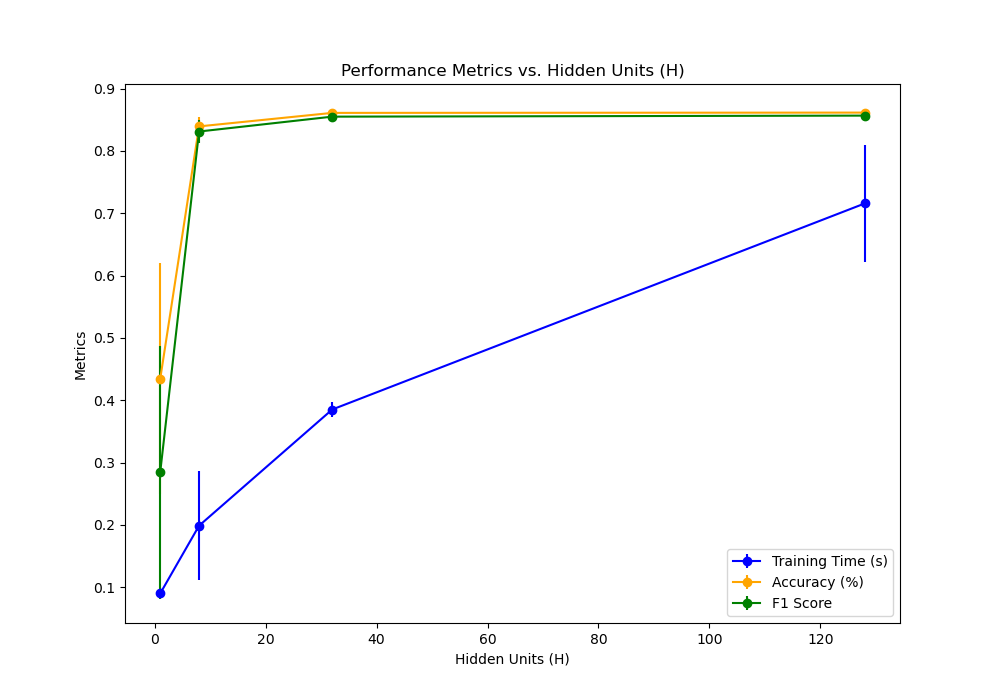
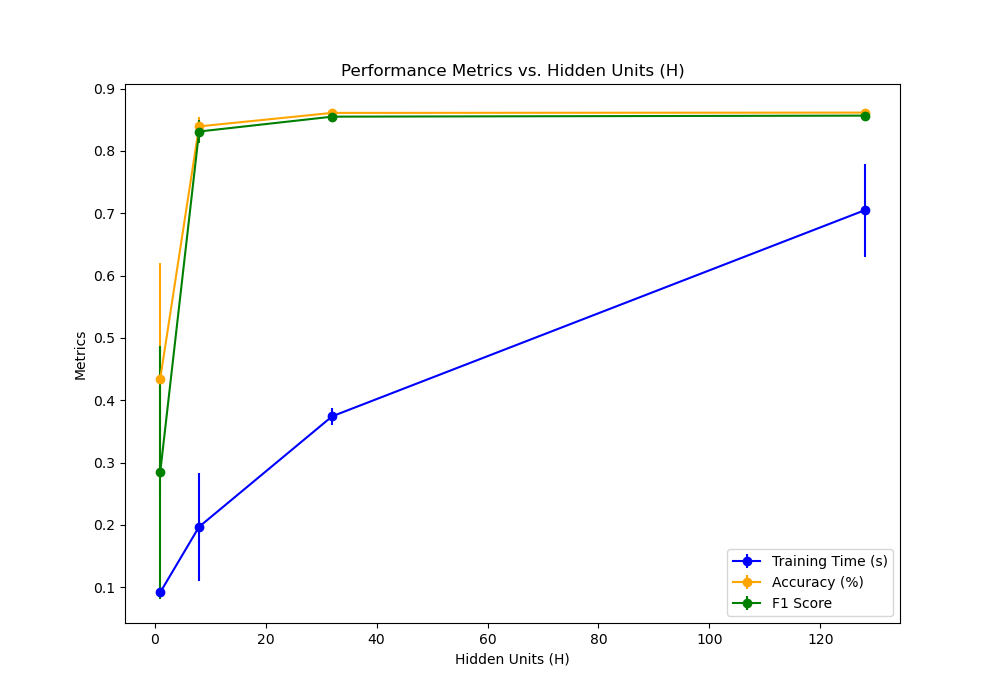
improve the model

diff --git a/PA1/pa1_report.tex b/PA1/pa1_report.tex
@@ -498,10 +498,10 @@ The table \ref{tab:Feedforward} and figure \ref{fig:feedforward} shows the perfo
         \hline
         H values & $R^2_1$ & $R^2_2$ & $R^2_3$ & mean $R^2$ & Std($R^2$) & $T_1$ & $T_2$ & $T_3$ & mean $T$ & Std($T$) \\
         \hline
-        1 & 0.07566 & 0.05976 &  -0.00093 & 0.0448 & 0.0330 & 7.3014 & 2.2372 & 1.5578  & 3.6988 & 2.5625\\
-        8 & 0.29031 & 0.26985 & 0.24427 & 0.2681 & 0.0188 & 3.0492 & 4.47807 & 7.4026 & 4.9766 & 1.8119 \\
-        32 & 0.35848 & 0.25432 & 0.20716 & 0.2733 & 0.0632 & 4.6055 & 3.6451 & 5.1407 & 4.4638 & 0.6188 \\
-        128 & 0.35523 & 0.30468& 0.39429 & 0.3514 & 0.0367 & 4.3852 & 4.1018 & 3.9308 & 4.1393 & 0.1874 \\
+        1 & 0.07566 & 0.05976 &  -0.00093 & 0.0448 & 0.0330 & 1.2492 & 1.2492 & 0.2607  & 0.2607 & 0.2607\\
+        8 & 0.29031 & 0.26985 & 0.24427 & 0.2681 & 0.0188 & 0.5579 & 0.8106 & 1.3534 & 0.9073 & 0.3319 \\
+        32 & 0.35848 & 0.25432 & 0.20716 & 0.2733 & 0.0632 & 1.4509 & 1.2168 & 1.5971 & 1.4216 & 0.1566 \\
+        128 & 0.35523 & 0.30468& 0.39429 & 0.3514 & 0.0367 & 4.3852 & 1.4458 & 1.3225 & 1.4063 & 0.0593 \\
         \hline
     \end{tabular}
     \caption{The performance of the feedforward neural network model}
@@ -540,14 +540,14 @@ According to the user guide, when we use the command "optimal" the learning rate
     \toprule
     Learning Rate & $\eta_0$ & Tolerance & Avg. Training Time (s) & Avg. F1 Score & Avg. Test Acc. & Avg. Train Acc. \\
     \midrule
-    constant & 0.02 & 0.001 & 0.0 $\pm$ 0.0 & 0.823 $\pm$ 0.010 & 0.826 $\pm$ 0.011 & 0.792 $\pm$ 0.014 \\
-    constant & 0.01 & 0.001 & 0.016 $\pm$ 0.0002 & 0.850 $\pm$ 0.001 & 0.855 $\pm$ 0.001 & 0.821 $\pm$ 0.002 \\
-    constant & 0.02 & 0.01 & 0.0 $\pm$ 0.0 & 0.799 $\pm$ 0.027 & 0.802 $\pm$ 0.028 & 0.762 $\pm$ 0.036 \\
-    constant & 0.01 & 0.01 & 0.003 $\pm$ 0.005 & 0.823 $\pm$ 0.006 & 0.826 $\pm$ 0.006 & 0.787 $\pm$ 0.019 \\
-    optimal & 0.02 & 0.001 & 0.026 $\pm$ 0.008 & 0.825 $\pm$ 0.008 & 0.830 $\pm$ 0.006 & 0.798 $\pm$ 0.008 \\
-    optimal & 0.01 & 0.001 & 0.037 $\pm$ 0.008 & 0.825 $\pm$ 0.008 & 0.830 $\pm$ 0.006 & 0.798 $\pm$ 0.008 \\
-    optimal & 0.02 & 0.01 & 0.023 $\pm$ 0.007 & 0.813 $\pm$ 0.010 & 0.817 $\pm$ 0.012 & 0.787 $\pm$ 0.013 \\
-    optimal & 0.01 & 0.01 & 0.021 $\pm$ 0.007 & 0.813 $\pm$ 0.010 & 0.817 $\pm$ 0.012 & 0.787 $\pm$ 0.013 \\
+    constant & 0.02 & 0.001 & 0.0038 $\pm$ 0.0008 & 0.823 $\pm$ 0.010 & 0.826 $\pm$ 0.011 & 0.792 $\pm$ 0.014 \\
+    constant & 0.01 & 0.001 & 0.0044 $\pm$ 0.0004 & 0.850 $\pm$ 0.001 & 0.855 $\pm$ 0.001 & 0.821 $\pm$ 0.002 \\
+    constant & 0.02 & 0.01 & 0.0036 $\pm$ 7.19e-05 & 0.799 $\pm$ 0.027 & 0.802 $\pm$ 0.028 & 0.762 $\pm$ 0.036 \\
+    constant & 0.01 & 0.01 & 0.0035 $\pm$ 4.41e-05 & 0.823 $\pm$ 0.006 & 0.826 $\pm$ 0.006 & 0.787 $\pm$ 0.019 \\
+    optimal & 0.02 & 0.001 & 0.0171 $\pm$ 0.0038 & 0.825 $\pm$ 0.008 & 0.830 $\pm$ 0.006 & 0.798 $\pm$ 0.008 \\
+    optimal & 0.01 & 0.001 & 0.0171 $\pm$ 0.0038 & 0.825 $\pm$ 0.008 & 0.830 $\pm$ 0.006 & 0.798 $\pm$ 0.008 \\
+    optimal & 0.02 & 0.01 & 0.0151 $\pm$ 0.0020 & 0.813 $\pm$ 0.010 & 0.817 $\pm$ 0.012 & 0.787 $\pm$ 0.013 \\
+    optimal & 0.01 & 0.01 & 0.0154 $\pm$ 0.0022 & 0.813 $\pm$ 0.010 & 0.817 $\pm$ 0.012 & 0.787 $\pm$ 0.013 \\
     \bottomrule
     \end{tabular}
     \caption{Model Performance Across Different Parameters  (all the data satifies this $\overline{x}$ $\pm$ $\sigma$ formular)}
@@ -582,11 +582,11 @@ From the table \ref{tab:complete_model_performance}, as the learning rate increa
     \toprule
     Learning Rate & Training Time (s) & F1 Score & Testing Accuracy & Training Accuracy \\
     \midrule
-    0.05 & 0.0 & 0.765958 & 0.774011 & 0.723773 \\
-    0.04 & 0.010511 & 0.799790 & 0.806497 & 0.759449 \\
-    0.03 & 0.0 & 0.782188 & 0.788136 & 0.754504 \\
-    0.02 & 0.0 & 0.816410 & 0.817797 & 0.778877 \\
-    0.01 & 0.0 & 0.847873 & 0.853107 & 0.820205 \\
+    0.05 & 0.0026 & 0.765958 & 0.774011 & 0.723773 \\
+    0.04 & 0.0036 & 0.799790 & 0.806497 & 0.759449 \\
+    0.03 & 0.0036 & 0.782188 & 0.788136 & 0.754504 \\
+    0.02 & 0.0047 & 0.816410 & 0.817797 & 0.778877 \\
+    0.01 & 0.0052 & 0.847873 & 0.853107 & 0.820205 \\
     \bottomrule
     \end{tabular}
     \caption{Model Performance with Constant Learning Rate}
@@ -674,7 +674,7 @@ I apply a series of data preprocessing steps before fitting the data to neural n
 
 \begin{lstlisting}
 Numerical Features Preprocessing:
-    - Imputation: Missing values are imputed using constant zero for each column.
+    - Imputation: Missing values are imputed using median for each column.
     - Scaling: Features are scaled using StandardScaler.
 
 Ordinal Features Preprocessing:
